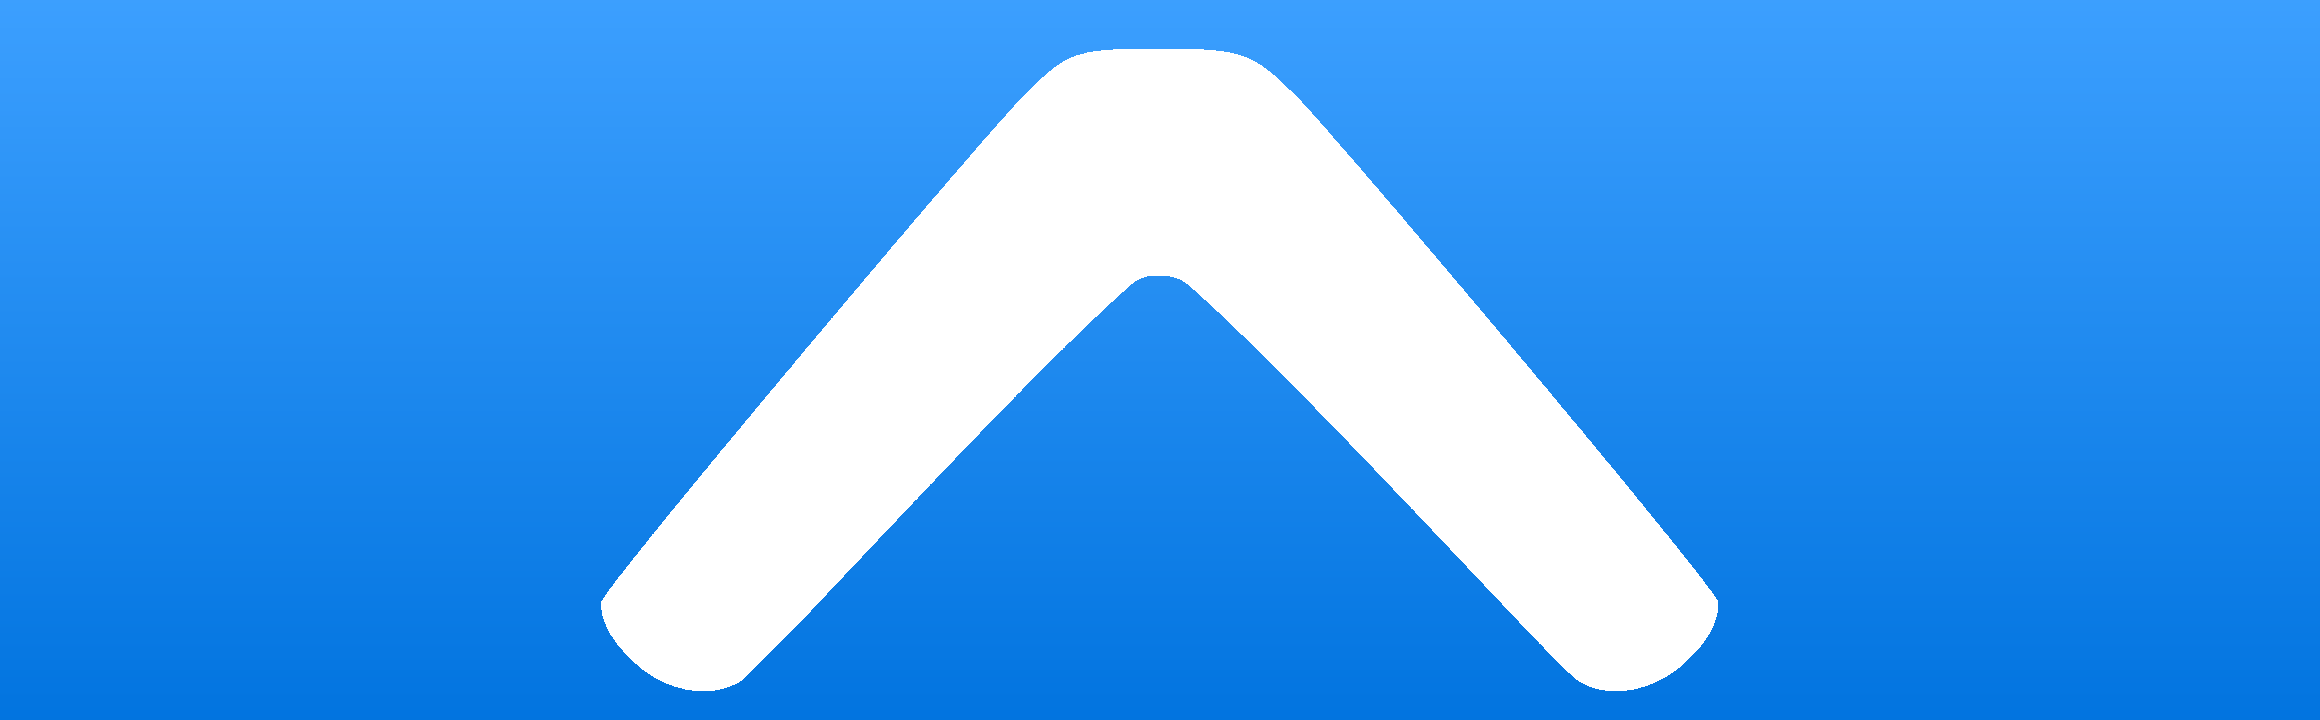
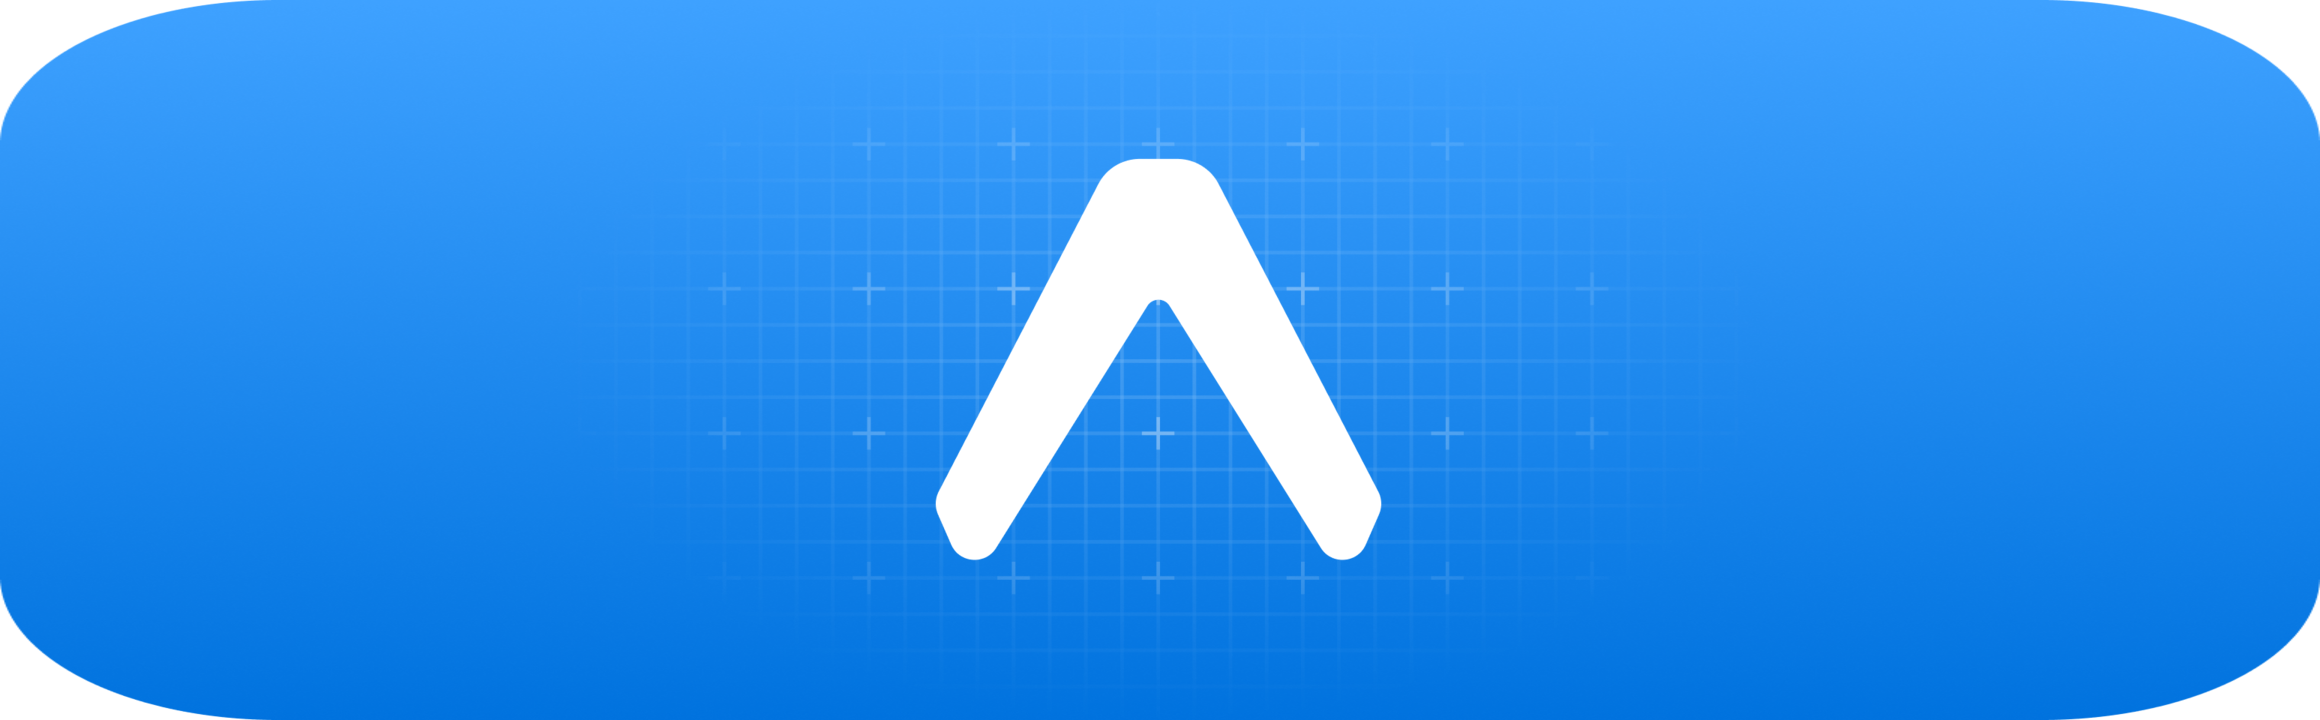
Update TV examples for latest SDK 55 (#678)
- Move to SDK 55.0.14
- Remove deprecated props from `app.json`
- Style and text changes
- New TV icon assets

diff --git a/with-router-tv/src/hooks/use-animated-styles.ts b/with-router-tv/src/hooks/use-animated-styles.ts
@@ -1,8 +1,9 @@
 import { useScreenDimensions } from '@/hooks/use-screen-dimensions';
-import { StyleSheet } from 'react-native';
+import { Platform, StyleSheet } from 'react-native';
 
 export const useAnimatedIconStyles = () => {
   const { height } = useScreenDimensions();
+  const scale = height / 800;
   return StyleSheet.create({
     imageContainer: {
       justifyContent: 'center',
@@ -16,20 +17,20 @@ export const useAnimatedIconStyles = () => {
     iconContainer: {
       justifyContent: 'center',
       alignItems: 'center',
-      width: height * 0.15,
-      height: height * 0.15,
+      width: Platform.OS === 'web' || Platform.isTV ? 196 * scale : 128 * scale,
+      height: 128 * scale,
       zIndex: 100,
     },
     image: {
       position: 'absolute',
-      width: height * 0.1,
-      height: height * 0.1,
+      width: Platform.OS === 'web' || Platform.isTV ? 160 * scale : 76 * scale,
+      height: Platform.OS === 'web' || Platform.isTV ? 130 * scale : 71 * scale,
     },
     background: {
       borderRadius: height * 0.04,
       experimental_backgroundImage: `linear-gradient(180deg, #3C9FFE, #0274DF)`,
-      width: height * 0.15,
-      height: height * 0.15,
+      width: Platform.OS === 'web' || Platform.isTV ? 196 * scale : 128 * scale,
+      height: 128 * scale,
       position: 'absolute',
     },
     backgroundSolidColor: {

diff --git a/with-router-tv/src/app/tv_focus.tsx b/with-router-tv/src/app/tv_focus.tsx
@@ -27,11 +27,11 @@ export default function FocusDemoScreen() {
     >
       <TVFocusGuideView autoFocus style={styles.innerContainer}>
         <ThemedView style={styles.titleContainer}>
-          <ThemedText type="subtitle">TV event handling demo</ThemedText>
+          <ThemedText type="subtitle">Event handling demo</ThemedText>
         </ThemedView>
         <ThemedText>
-          Demo of focus handling and TV remote event handling in{' '}
-          <ThemedText type="code">Pressable</ThemedText> and{' '}
+          Demo of events on different platforms (focus events on TV, hover
+          events on web) in <ThemedText type="code">Pressable</ThemedText> and{' '}
           <ThemedText type="code">Touchable</ThemedText> components.
         </ThemedText>
         <Collapsible title="How it works" style={{ width: '100%' }}>

diff --git a/with-router-tv/src/components/animated-icon.native.tsx b/with-router-tv/src/components/animated-icon.native.tsx
@@ -1,7 +1,7 @@
 import { useAnimatedIconStyles } from '../hooks/use-animated-styles';
 import { Image } from 'expo-image';
 import { useState } from 'react';
-import { Dimensions, View } from 'react-native';
+import { Dimensions, Platform, View } from 'react-native';
 import Animated, { Easing, Keyframe } from 'react-native-reanimated';
 import { scheduleOnRN } from 'react-native-worklets';
 
@@ -105,7 +105,11 @@ export function AnimatedIcon() {
       >
         <Image
           style={styles.image}
-          source={require('@/assets/images/expo-logo.png')}
+          source={
+            Platform.OS === 'web' || Platform.isTV
+              ? require('@/assets/images/expotv-logo.png')
+              : require('@/assets/images/expo-logo.png')
+          }
         />
       </Animated.View>
     </View>

diff --git a/with-router-tv/src/app/index.tsx b/with-router-tv/src/app/index.tsx
@@ -1,4 +1,4 @@
-import { StyleSheet } from 'react-native';
+import { Platform, StyleSheet } from 'react-native';
 import { SafeAreaView } from 'react-native-safe-area-context';
 
 import { AnimatedIcon } from '@/components/animated-icon';
@@ -17,7 +17,9 @@ export default function HomeScreen() {
           <AnimatedIcon />
           <ThemedView style={styles.titleContainer}>
             <ThemedText type="title" style={styles.title}>
-              Welcome to&nbsp;Expo
+              {`Welcome to Expo ${
+                Platform.isTV ? 'TV' : Platform.OS === 'web' ? 'web' : 'mobile'
+              }`}
             </ThemedText>
           </ThemedView>
         </ThemedView>

diff --git a/with-router-tv/src/components/app-tabs.web.tsx b/with-router-tv/src/components/app-tabs.web.tsx
@@ -36,7 +36,7 @@ export default function AppTabs() {
             <TabButton>Explore</TabButton>
           </TabTrigger>
           <TabTrigger name="tv_focus" href="/tv_focus" asChild>
-            <TabButton>TV Demo</TabButton>
+            <TabButton>Events</TabButton>
           </TabTrigger>
         </CustomTabList>
       </TabList>

diff --git a/with-router-tv/src/components/animated-icon.tsx b/with-router-tv/src/components/animated-icon.tsx
@@ -82,7 +82,7 @@ export function AnimatedIcon() {
       >
         <Image
           style={styles.image}
-          source={require('@/assets/images/expo-logo.png')}
+          source={require('@/assets/images/expotv-logo.png')}
         />
       </Animated.View>
     </View>

diff --git a/with-router-tv/src/components/animated-icon.module.css b/with-router-tv/src/components/animated-icon.module.css
@@ -1,7 +1,7 @@
 .expoLogoBackground {
   background-image: linear-gradient(180deg, #3c9ffe, #0274df);
   border-radius: 4vh;
-  width: 15vh;
+  width: 25vh;
   height: 15vh;
   justify-content: center;
 }
